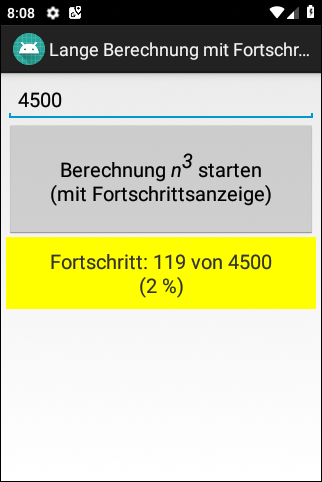
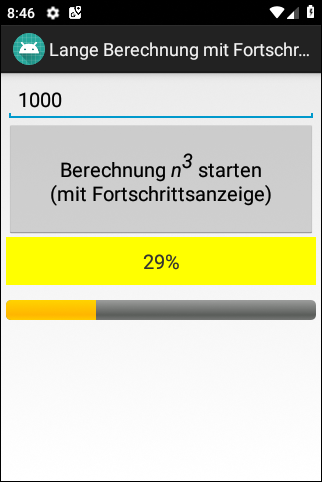
Fortschrittsanzeige jetzt auch mit ProgressBar

Changed region(s): [[0.0, 0.529, 0.9938, 0.6846], [0.0621, 0.0, 0.1242, 0.0622], [0.0621, 0.1867, 0.1242, 0.2178]]

diff --git a/app/src/main/java/de/mide/langeberechnungmitfortschrittsanzeige/MainActivity.java b/app/src/main/java/de/mide/langeberechnungmitfortschrittsanzeige/MainActivity.java
@@ -9,6 +9,7 @@ import android.view.View.OnClickListener;
 import android.view.inputmethod.InputMethodManager;
 import android.widget.Button;
 import android.widget.EditText;
+import android.widget.ProgressBar;
 import android.widget.TextView;
 
 
@@ -34,20 +35,24 @@ public class MainActivity extends Activity implements OnClickListener {
     /** Button um Berechnung zu starten. */
     protected Button _startButton = null;
 
+    /** Element für prozentuale Fortschrittsanzeige (von 0% bis 100%). */
+    protected ProgressBar _progressBar = null;
+
 
     /**
      * Lifecycle-Method für Setup der UI.
      */
     @Override
     protected void onCreate(Bundle savedInstanceState) {
-
         super.onCreate(savedInstanceState);
         setContentView(R.layout.activity_main);
+
         setTitle(R.string.title_activity);
 
         _editTextInputParameter = findViewById( R.id.textEditFuerInputParameter );
         _textViewAnzeige        = findViewById( R.id.textViewZumAnzeigen        );
         _startButton            = findViewById( R.id.buttonBerechnungStarten    );
+        _progressBar            = findViewById( R.id.fortschrittsanzeige        );
 
         _startButton.setOnClickListener(this);
     }
@@ -70,6 +75,7 @@ public class MainActivity extends Activity implements OnClickListener {
         }
 
         keyboardEinklappen(_editTextInputParameter);
+        _progressBar.setProgress(0);
 
         int inputZahl = Integer.parseInt(inputString);
         Log.d(TAG4LOGGING,
@@ -110,24 +116,23 @@ public class MainActivity extends Activity implements OnClickListener {
      *                 wird als Parameter bei Aufruf der <i>execute()</i>-Methode am
      *                 <i>AsyncTask</i>-Objekt übergeben.</li><br>
      *
-     *     <li>String: Als Fortschrittsanzeige darzustellender String, Input-Parameter
-     *                 für die Methode <i>onProgressUpdate()</i>, wird durch Aufruf
-     *                 von Methode <i>publishProgress()</i> in <i>doInBackground()</i>
-     *                 übergeben.</li><br>
+     *     <li>Integer: Als Fortschrittsanzeige darzustellender Prozent-Wert, wird durch
+     *                  Aufruf der Methode <i>publishProgress()</i> "verschickt" und von
+     *                  der Methode <i>onProgressUpdate</i> empfangen.
      *
      *     <li>String: Als Ergebnis darzustellende Nachricht; wird mit <i>return</i>
      *                 von der Methode <i>doInBackground()</i> zurückgegeben,
      *                 ist Input-Parameter für die Methode <i>onPostExecute()</i>.</li><br>
      * </ol>
      */
-    public class MeinAsyncTask extends AsyncTask<Integer, String, String> {
+    public class MeinAsyncTask extends AsyncTask<Integer, Integer, String> {
 
         /**
          * Methode enthält Code mit langer Berechnung, der im Hintergrund-
          * Thread ausgeführt wird.
          *
-         * @param params Varags, erste Komponente muss Zahl n sein, die
-         *               potenziert werden soll.
+         * @param params Varags, erste Komponente muss Zahl <i>n</i> sein,
+         *               die potenziert werden soll.
          *
          * @return String mit Berechnungsergebnis, wird an Methode
          *         {@link MeinAsyncTask#onPostExecute(String)} übergeben.
@@ -143,12 +148,6 @@ public class MainActivity extends Activity implements OnClickListener {
 
             long zeitpunktStart = System.nanoTime();
 
-            if (mitFortschrittsanzeige)
-                publishProgress("Berechnung für " + inputZahl + " gestartet ...");
-            else
-                publishProgress("Berechnung für " + inputZahl + " gestartet ..." +
-                        "Keine Fortschritts-Anzeige" );
-
             for (int i1 = 1; i1 <= inputZahl; i1++) {
                 for (int i2 = 1; i2 <= inputZahl; i2++) {
                     for (int i3 = 1; i3 <= inputZahl; i3++) {
@@ -158,10 +157,7 @@ public class MainActivity extends Activity implements OnClickListener {
 
                 if (mitFortschrittsanzeige  &&  i1 % 10 == 9) {
                     int prozentWert = (int) (i1 * 100.0 / inputZahl);
-                    String fortschrittStr =
-                            "Fortschritt: " + i1 + " von " + inputZahl +
-                                    "\n(" + prozentWert + " %)";
-                    publishProgress(fortschrittStr);
+                    publishProgress(prozentWert);
                 }
 
             } // for i1
@@ -171,7 +167,7 @@ public class MainActivity extends Activity implements OnClickListener {
             final long laufzeitSekunden = (zeitpunktEnde - zeitpunktStart) /
                     ( 1000 * 1000 * 1000 );
 
-            return  "Ergebnis: " + ergebnis +
+            return  "Ergebnis: "   + ergebnis +
                     "\nLaufzeit: " + laufzeitSekunden + " Sekunden";
         }
 
@@ -180,11 +176,16 @@ public class MainActivity extends Activity implements OnClickListener {
          * Methode {@link AsyncTask#publishProgress(Object[])} aufgerufen
          * (aber asynchron!).
          *
-         * @param values  String mit aktuellem Fortschritt.
+         * @param values  Varags, erste Komponente ist int-Wert mit Fortschritt in Prozent.
          */
         @Override
-        protected void onProgressUpdate(String... values) {
-            _textViewAnzeige.setText(values[0]);
+        protected void onProgressUpdate(Integer...values) {
+
+            int prozentwert = values[0];
+
+            _progressBar.setProgress( prozentwert );
+
+            _textViewAnzeige.setText( prozentwert + "%" );
         }
 
         /**
@@ -198,6 +199,7 @@ public class MainActivity extends Activity implements OnClickListener {
         protected void onPostExecute(String ergebnisString) {
             _textViewAnzeige.setText( ergebnisString );
             _startButton.setEnabled(true);
+            _progressBar.setProgress( 100 );
         }
 
     }

diff --git a/README.md b/README.md
@@ -5,6 +5,10 @@ thread using class [AsyncTask](https://developer.android.com/reference/android/o
 
 <br>
 
+This app is a variation of the app [Langlaufende Operationen](https://github.com/MDecker-MobileComputing/Android_LanglaufendeOperationen).
+
+<br>
+
 Identifiers (names for classes, variables and methods), (JavaDoc) comments and UI texts are in German only.
 
 <br>
@@ -12,7 +16,13 @@ Identifiers (names for classes, variables and methods), (JavaDoc) comments and U
 ----
 ## Screenshots
 
-![Screenshot 1](screenshot_1.png)  ![Screenshot 2](screenshot_2.png) 
+![Screenshot 1: Vor der Berechnung](screenshot_1.png)  
+
+![Screenshot 2: Während der Berechnung](screenshot_2.png) 
+
+<br>
+
+![Screenshot 3: Berechnung beendet](screenshot_3.png)
 
 <br>
 
